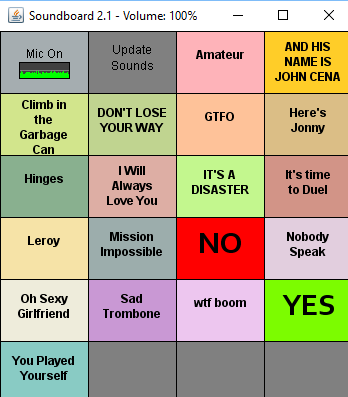
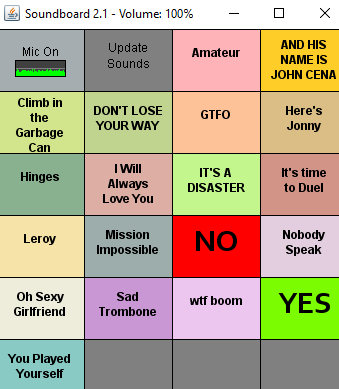
Added Auto-detection of new Sounds

diff --git a/src/org/ui/ControlPanel.java b/src/org/ui/ControlPanel.java
@@ -17,20 +17,20 @@ import javax.swing.JFrame;
 import javax.swing.JPanel;
 
 import org.ui.input.HotkeyListener;
-import org.ui.wrapper.LocalSoundModule;
-import org.ui.wrapper.MicModule;
-import org.ui.wrapper.ReloadModule;
-import org.ui.wrapper.UIModule;
+import org.ui.modules.LocalSoundModule;
+import org.ui.modules.MicModule;
+import org.ui.modules.UIModule;
 import org.util.Converter;
+import org.util.DirectoryWatcher;
 import org.util.Settings;
 
 public class ControlPanel extends JPanel{
 	private static final long serialVersionUID = -1405633901274153343L;
 	public static final double VERSION = 2.1;
 	
-	public static int ROWS = 4, COLUMNS = 5;
-	private static CopyOnWriteArrayList<UIModule> modules = new CopyOnWriteArrayList<UIModule>();
-	private static HotkeyListener hkl;
+	private int ROWS = 4, COLUMNS = 5;
+	private CopyOnWriteArrayList<UIModule> modules = new CopyOnWriteArrayList<UIModule>();
+	private HotkeyListener hkl;
 	
 	/** Creates and sets up listeners for a new GUI Control Panel */
 	public ControlPanel(){
@@ -62,18 +62,18 @@ public class ControlPanel extends JPanel{
 		f.addMouseWheelListener(new MouseWheelListener(){
 			public void mouseWheelMoved(MouseWheelEvent e) {
 				int notches = e.getWheelRotation();
-				
 				for(UIModule m : modules){
 					if(!(m instanceof LocalSoundModule))
 						continue;
 					LocalSoundModule lsm = (LocalSoundModule)m;
-					lsm.setVolume(notches*-1);//Mousewheel ticks are inverted.
+					
+					lsm.setVolume((int) (5*Math.signum(notches)*-1) );//Mousewheel ticks are inverted.
 				}
 			}
 		});
 		this.addMouseListener(createMouseListener());
 		
-		new Thread(){
+		new Thread("Repainter"){
 			public void run(){
 				try{
 					while(ControlPanel.this.isValid()){
@@ -81,6 +81,7 @@ public class ControlPanel extends JPanel{
 						
 						for(UIModule m : modules){
 							if(m instanceof LocalSoundModule){
+								//Should probably find a better way to update the title.
 								f.setTitle("Soundboard "+VERSION+" - Volume: "+(int)((((LocalSoundModule) m).getVolume()/100d)*100)+"%");
 								break;
 							}
@@ -92,10 +93,19 @@ public class ControlPanel extends JPanel{
 				}catch(Exception e){}
 			}
 		}.start();
+		
+		// Refresh whenever we detect a file change.
+		new DirectoryWatcher( new File(Settings.getSetting("SOUND_DIR")) ){
+			public void handle(File f){
+				if(!f.getName().endsWith(".wav"))
+					Converter.checkSounds();
+				loadModules();
+			}
+		};
 	}
 	
 	/** Triggers the kill event on all loaded modules. */
-	private static void killModules(){
+	private void killModules(){
 		System.out.println("Terminating all modules.");
 		
     	for(UIModule o : modules){
@@ -128,13 +138,10 @@ public class ControlPanel extends JPanel{
 	}
 	
 	/** Populate SoundOption list with all available files. */
-	public static void loadModules(){
+	public void loadModules(){
 		killModules();
 		modules.clear();
 		modules.add(new MicModule());
-		modules.add(new ReloadModule());
-
-		Converter.checkSounds();
 		
 		File dir = new File(Settings.getSetting("SOUND_DIR"));
 		if(!dir.exists()){
@@ -159,8 +166,7 @@ public class ControlPanel extends JPanel{
 		}
 		ROWS = (int) Math.floor(Math.sqrt(modules.size()));
 		COLUMNS = (int) Math.ceil((double)modules.size()/(double)ROWS);
-		System.out.println("Rows: "+ROWS+", Col: "+COLUMNS);
-		System.out.println("Modules loaded: "+modules.size()+" :: "+(modules.size()/ROWS));
+		System.out.println("Modules loaded: "+modules.size());
 	}
 
 	public void paint(Graphics gg){
@@ -170,7 +176,7 @@ public class ControlPanel extends JPanel{
 		g.setColor(Color.gray);
 		g.fillRect(0, 0, width, height);
 		
-		int sw=width/ROWS, sh = (int)Math.ceil((double)height/(double)COLUMNS);
+		int sw=(int)Math.ceil((double)width/(double)ROWS), sh = (int)Math.ceil((double)height/(double)COLUMNS);
 		
 		for(int i=0; i<modules.size(); i++){
 			int bx = (i%ROWS)*(sw);
@@ -187,7 +193,7 @@ public class ControlPanel extends JPanel{
 	
 	/** Render a grid. **/
 	private void grid(Graphics2D g, int width, int height){
-		int wPer = width/ROWS, hPer = (int)Math.ceil((double)height/(double)COLUMNS);
+		int wPer = (int)Math.ceil((double)width/(double)ROWS), hPer = (int)Math.ceil((double)height/(double)COLUMNS);
 		g.setColor(Color.BLACK);
 		
 		for(int x=0; x<=ROWS; x++){

diff --git a/src/org/util/DirectoryWatcher.java b/src/org/util/DirectoryWatcher.java
@@ -1,0 +1,86 @@
+package org.util;
+
+import static java.nio.file.LinkOption.NOFOLLOW_LINKS;
+import static java.nio.file.StandardWatchEventKinds.ENTRY_CREATE;
+import static java.nio.file.StandardWatchEventKinds.ENTRY_MODIFY;
+import static java.nio.file.StandardWatchEventKinds.OVERFLOW;
+import static java.nio.file.StandardWatchEventKinds.ENTRY_DELETE;
+
+import java.io.File;
+import java.io.IOException;
+import java.nio.file.FileSystem;
+import java.nio.file.Files;
+import java.nio.file.Path;
+import java.nio.file.WatchEvent;
+import java.nio.file.WatchKey;
+import java.nio.file.WatchService;
+
+public class DirectoryWatcher {
+	private File dir;
+	private Thread thread;
+	
+	/** Creates and starts a Threaded watcher, that will trigger this DirectoryWatcher's {@link #handle()} method with any files that are created or modified within the directory. <br>
+	 * This watcher runs as a daemon, and will terminate when all other non-daemon Threads are complete.*/
+	public DirectoryWatcher(File dir){
+		this.dir = dir;
+		this.thread = new Thread("FileWatcher-"+dir.getAbsolutePath()+"-"+Math.random()){
+			public void run(){
+				watchDirectoryPath();
+			}
+		};
+		this.thread.setDaemon(true);
+		this.thread.start();
+	}
+	
+	private void watchDirectoryPath() {
+		Path path = this.dir.toPath();
+		// Sanity check - Check if path is a folder
+		try {
+			Boolean isFolder = (Boolean) Files.getAttribute(path,"basic:isDirectory", NOFOLLOW_LINKS);
+			if (!isFolder) {
+				throw new IllegalArgumentException("Path: " + path + " is not a folder");
+			}
+		} catch (IOException ioe) {
+			ioe.printStackTrace();
+		}
+		
+		FileSystem fs = path.getFileSystem ();
+		try(WatchService service = fs.newWatchService()) {
+			path.register(service, ENTRY_CREATE, ENTRY_MODIFY, ENTRY_DELETE);
+			
+			// Start infinite polling loop
+			WatchKey key = null;
+			while(true) {
+				key = service.take();
+				
+				for(WatchEvent<?> watchEvent : key.pollEvents()) {
+					if (watchEvent.kind() == OVERFLOW) {
+						//Ignore misc events.
+						continue;
+					} else {
+						//File was modified/created.
+						//Event context is FUBAR and uses relative paths, so we assemble a full absolute path:
+						Path dir = (Path)key.watchable();
+						Path fullPath = dir.resolve((Path)watchEvent.context());
+						
+						// pass fully-built absolute filepath off to save handler:
+						this.handle(fullPath.toFile());
+					}
+				}
+
+				if(!key.reset()) {
+					break;
+				}
+			}
+		} catch(IOException | InterruptedException ioe) {
+			ioe.printStackTrace();
+		}
+
+	}
+	
+	/**
+	 * Called automatically whenever a File is deleted, modified, or created within this Watcher's Directory.
+	 * @param f - The File that was added or changed. <b>This file may not exist on a delete.</b>
+	 */
+	public void handle(File f){}
+}

diff --git a/src/org/ui/input/HotkeyListener.java b/src/org/ui/input/HotkeyListener.java
@@ -11,7 +11,8 @@ import org.jnativehook.keyboard.NativeKeyListener;
 import org.ui.input.hotkeys.HKMute;
 import org.ui.input.hotkeys.HKVolDown;
 import org.ui.input.hotkeys.HKVolUp;
-import org.ui.wrapper.UIModule;
+import org.ui.input.hotkeys.Hotkey;
+import org.ui.modules.UIModule;
 import org.util.Settings;
 
 /** Handles listening for hotkey presses. */
@@ -26,11 +27,15 @@ public class HotkeyListener implements NativeKeyListener{
 	
 	public HotkeyListener(CopyOnWriteArrayList<UIModule> modules) {
 		this.modules = modules;
+		for(Hotkey h : hotkeys){
+			if(Settings.getSetting(h.name()+"_hotkey")==null){
+				Settings.addSetting(h.name()+"_hotkey", h.keyString());
+			}
+		}
 	}
 
 	public void nativeKeyPressed(NativeKeyEvent e) {
 		String code = NativeKeyEvent.getKeyText(e.getKeyCode()).toLowerCase();
-		System.out.println("Key Pressed: " + code);
 		pressed.addIfAbsent(code);
 		
 		for(Hotkey h : hotkeys){

diff --git a/src/org/ui/input/hotkeys/HKVolDown.java b/src/org/ui/input/hotkeys/HKVolDown.java
@@ -2,9 +2,8 @@ package org.ui.input.hotkeys;
 
 import java.util.concurrent.CopyOnWriteArrayList;
 
-import org.ui.input.Hotkey;
-import org.ui.wrapper.LocalSoundModule;
-import org.ui.wrapper.UIModule;
+import org.ui.modules.LocalSoundModule;
+import org.ui.modules.UIModule;
 
 public class HKVolDown extends Hotkey{
 
@@ -24,7 +23,7 @@ public class HKVolDown extends Hotkey{
 			if(!(m instanceof LocalSoundModule))
 				continue;
 			LocalSoundModule lsm = (LocalSoundModule)m;
-			lsm.setVolume(-1);
+			lsm.setVolume(-10);
 		}
 	}
 

diff --git a/src/org/ui/input/hotkeys/HKVolUp.java b/src/org/ui/input/hotkeys/HKVolUp.java
@@ -2,9 +2,8 @@ package org.ui.input.hotkeys;
 
 import java.util.concurrent.CopyOnWriteArrayList;
 
-import org.ui.input.Hotkey;
-import org.ui.wrapper.LocalSoundModule;
-import org.ui.wrapper.UIModule;
+import org.ui.modules.LocalSoundModule;
+import org.ui.modules.UIModule;
 
 public class HKVolUp extends Hotkey{
 
@@ -24,7 +23,7 @@ public class HKVolUp extends Hotkey{
 			if(!(m instanceof LocalSoundModule))
 				continue;
 			LocalSoundModule lsm = (LocalSoundModule)m;
-			lsm.setVolume(1);
+			lsm.setVolume(10);
 		}
 	}
 

diff --git a/src/org/ui/input/hotkeys/HKMute.java b/src/org/ui/input/hotkeys/HKMute.java
@@ -2,9 +2,8 @@ package org.ui.input.hotkeys;
 
 import java.util.concurrent.CopyOnWriteArrayList;
 
-import org.ui.input.Hotkey;
-import org.ui.wrapper.MicModule;
-import org.ui.wrapper.UIModule;
+import org.ui.modules.MicModule;
+import org.ui.modules.UIModule;
 
 public class HKMute extends Hotkey{
 
@@ -15,7 +14,7 @@ public class HKMute extends Hotkey{
 
 	@Override
 	public String name() {
-		return "Mute";
+		return "Mic_Mute";
 	}
 
 	@Override

diff --git a/src/org/util/Converter.java b/src/org/util/Converter.java
@@ -37,6 +37,9 @@ public class Converter {
 				String newName = f.getName().substring(0, f.getName().lastIndexOf('.'))+".wav";
 				Process pb = new ProcessBuilder("ffmpeg","-y", "-i","\""+f.getAbsolutePath()+"\"", f.getParentFile().getAbsolutePath()+File.separator+newName).start();
 				pb.waitFor();
+				System.out.println("Exit: "+pb.exitValue());
+				if(pb.exitValue()==0)
+					f.delete();
 			}catch(Exception e){
 				e.printStackTrace();
 			}

diff --git a/src/org/ui/modules/LocalSoundModule.java b/src/org/ui/modules/LocalSoundModule.java
@@ -1,4 +1,4 @@
-package org.ui.wrapper;
+package org.ui.modules;
 
 import java.awt.Color;
 import java.awt.Font;
@@ -210,7 +210,7 @@ public class LocalSoundModule extends UIModule{
 	}
 	
 	public void setVolume(int notches){
-		volume += notches*5;
+		volume += notches;
 		volume = Math.min(120, volume);
 		volume = Math.max(-120, volume);
 	}

diff --git a/src/org/ui/input/hotkeys/Hotkey.java b/src/org/ui/input/hotkeys/Hotkey.java
@@ -1,8 +1,8 @@
-package org.ui.input;
+package org.ui.input.hotkeys;
 
 import java.util.concurrent.CopyOnWriteArrayList;
 
-import org.ui.wrapper.UIModule;
+import org.ui.modules.UIModule;
 
 public abstract class Hotkey {
 	/** The keys required (combod, if more than one) to activate this Hotkey's trigger function. */

diff --git a/src/org/SoundBoard.java b/src/org/SoundBoard.java
@@ -14,6 +14,7 @@ public class SoundBoard {
 	//TODO: Build a launcher/classloader to release along-side this main Jar, to enable automatic update downloading.
 	public static void main(String[] args){
 		checkOutput();
+		
 		Converter.checkSounds();
 		
 		ControlPanel ctrl = new ControlPanel();

diff --git a/src/org/ui/modules/UIModule.java b/src/org/ui/modules/UIModule.java
@@ -1,4 +1,4 @@
-package org.ui.wrapper;
+package org.ui.modules;
 
 import java.awt.Graphics2D;
 import java.awt.image.BufferedImage;

diff --git a/src/org/ui/modules/MicModule.java b/src/org/ui/modules/MicModule.java
@@ -1,4 +1,4 @@
-package org.ui.wrapper;
+package org.ui.modules;
 
 import java.awt.Color;
 import java.awt.Graphics2D;
